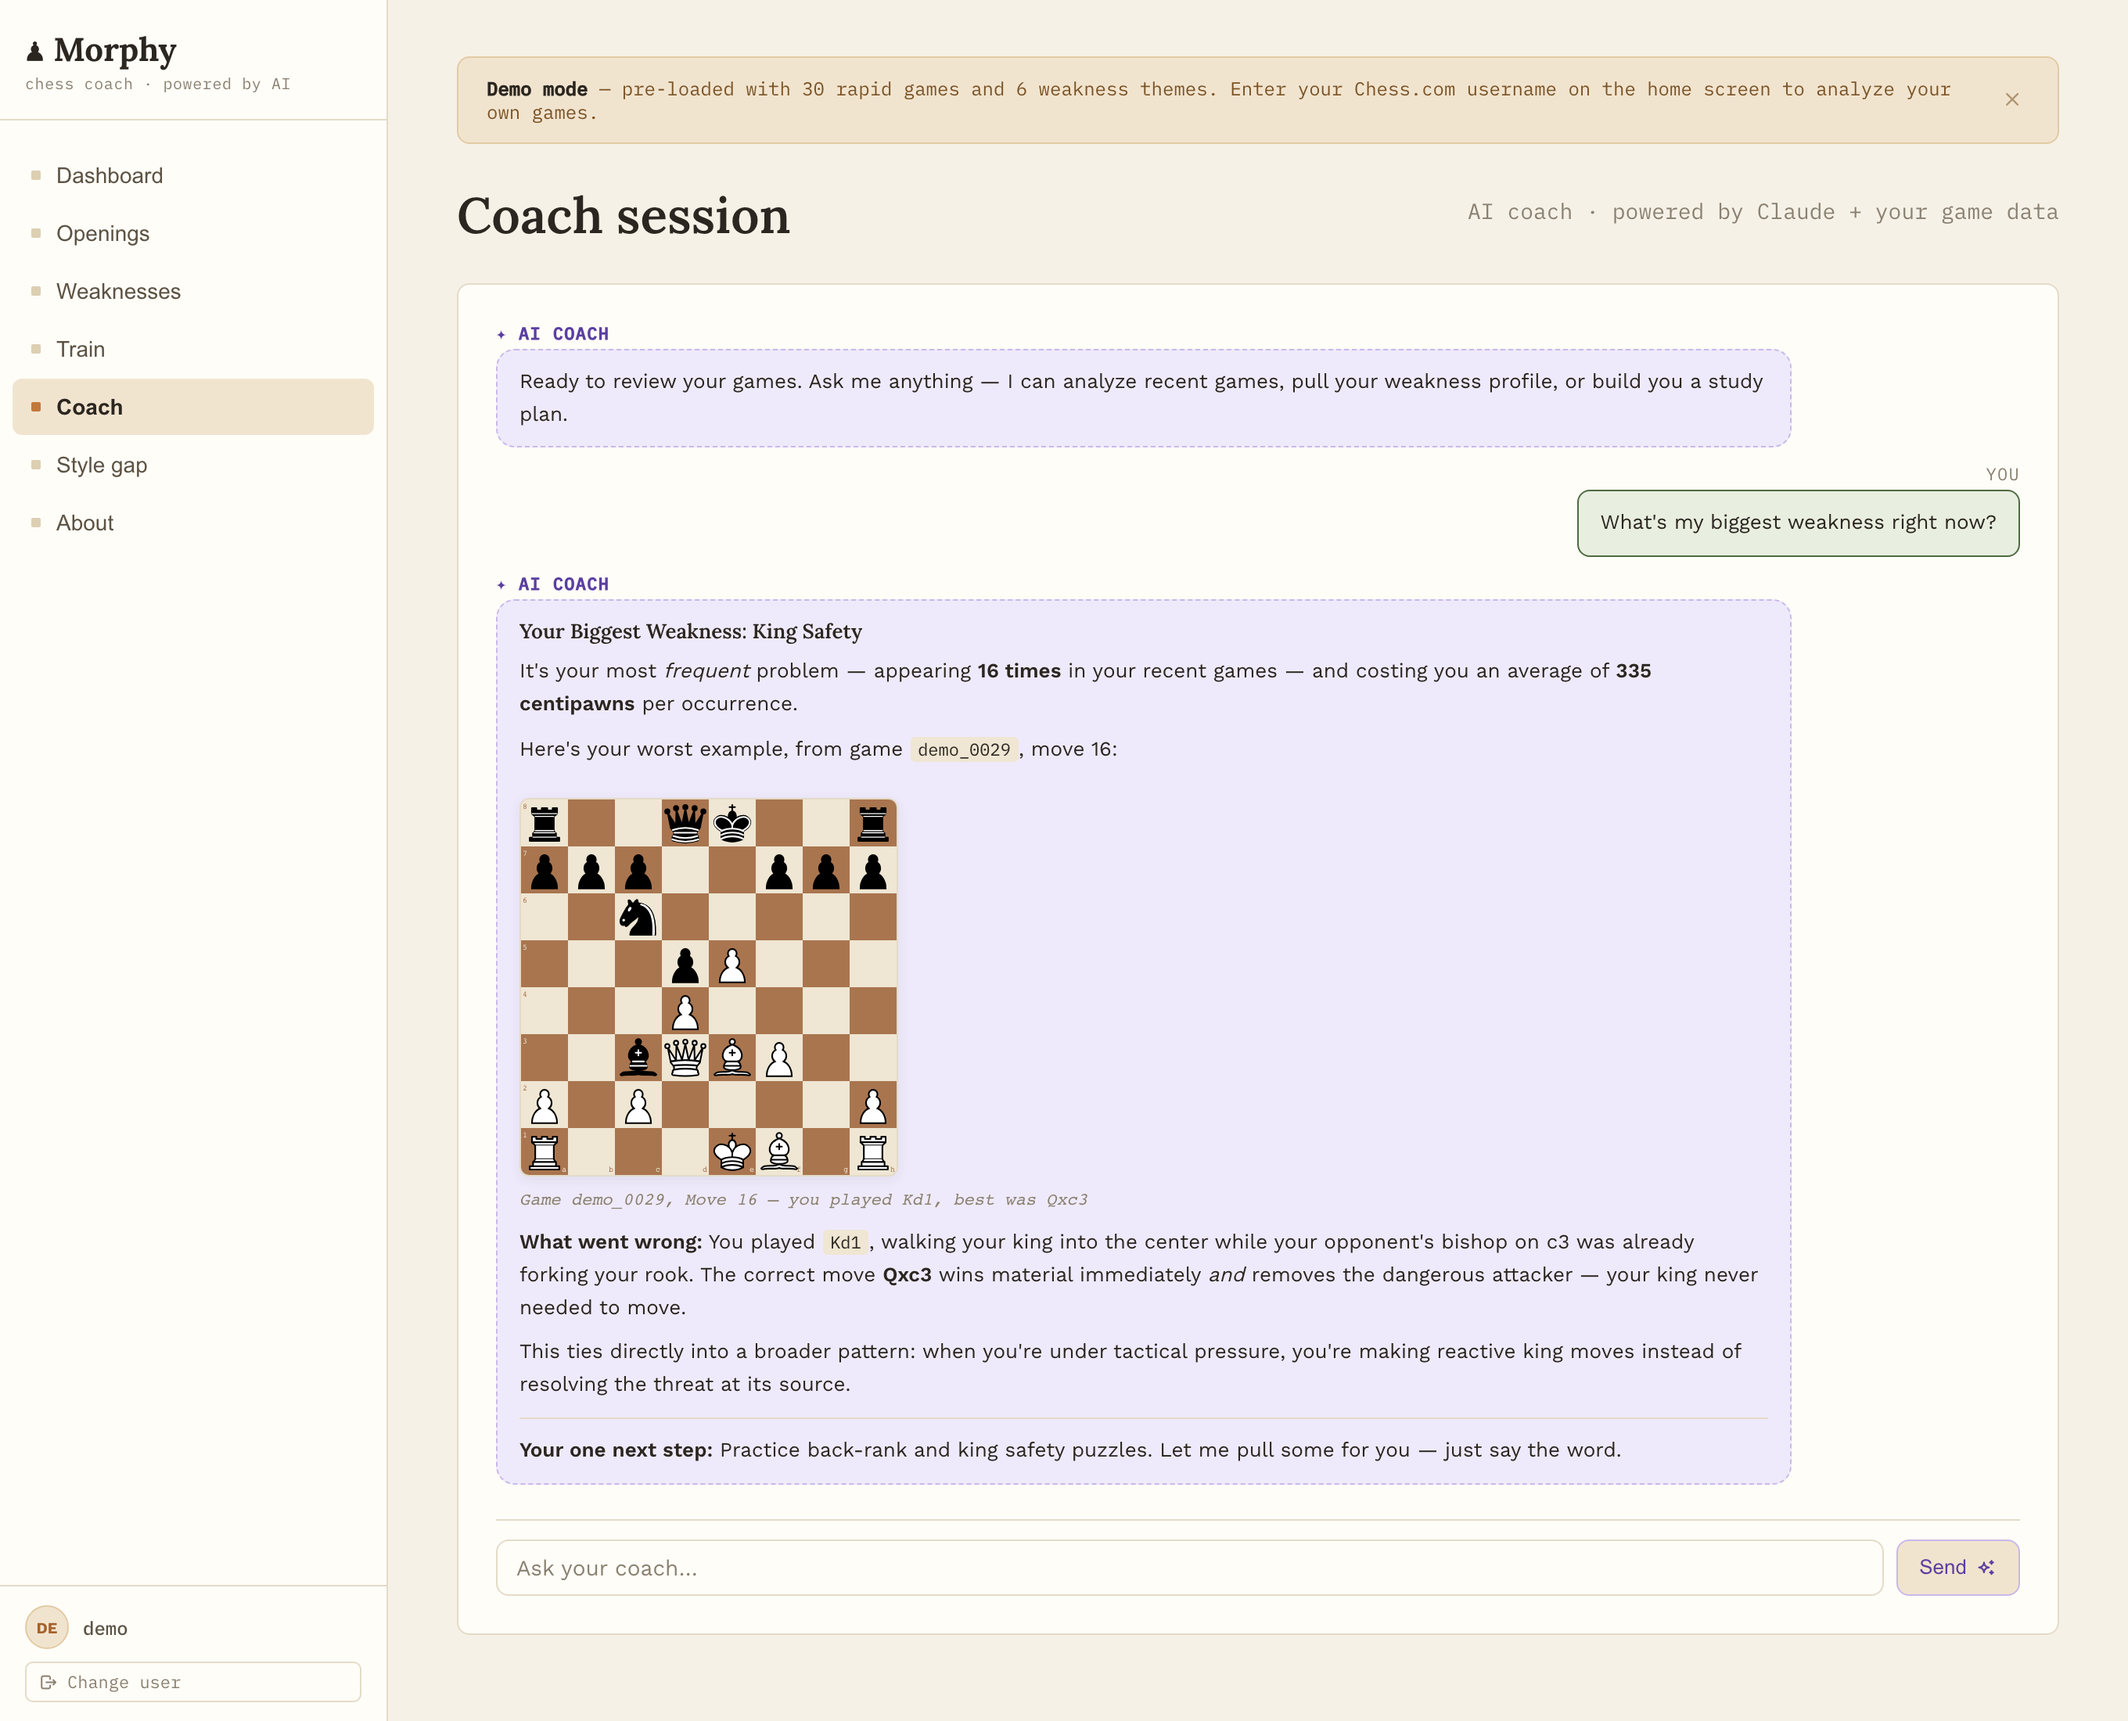
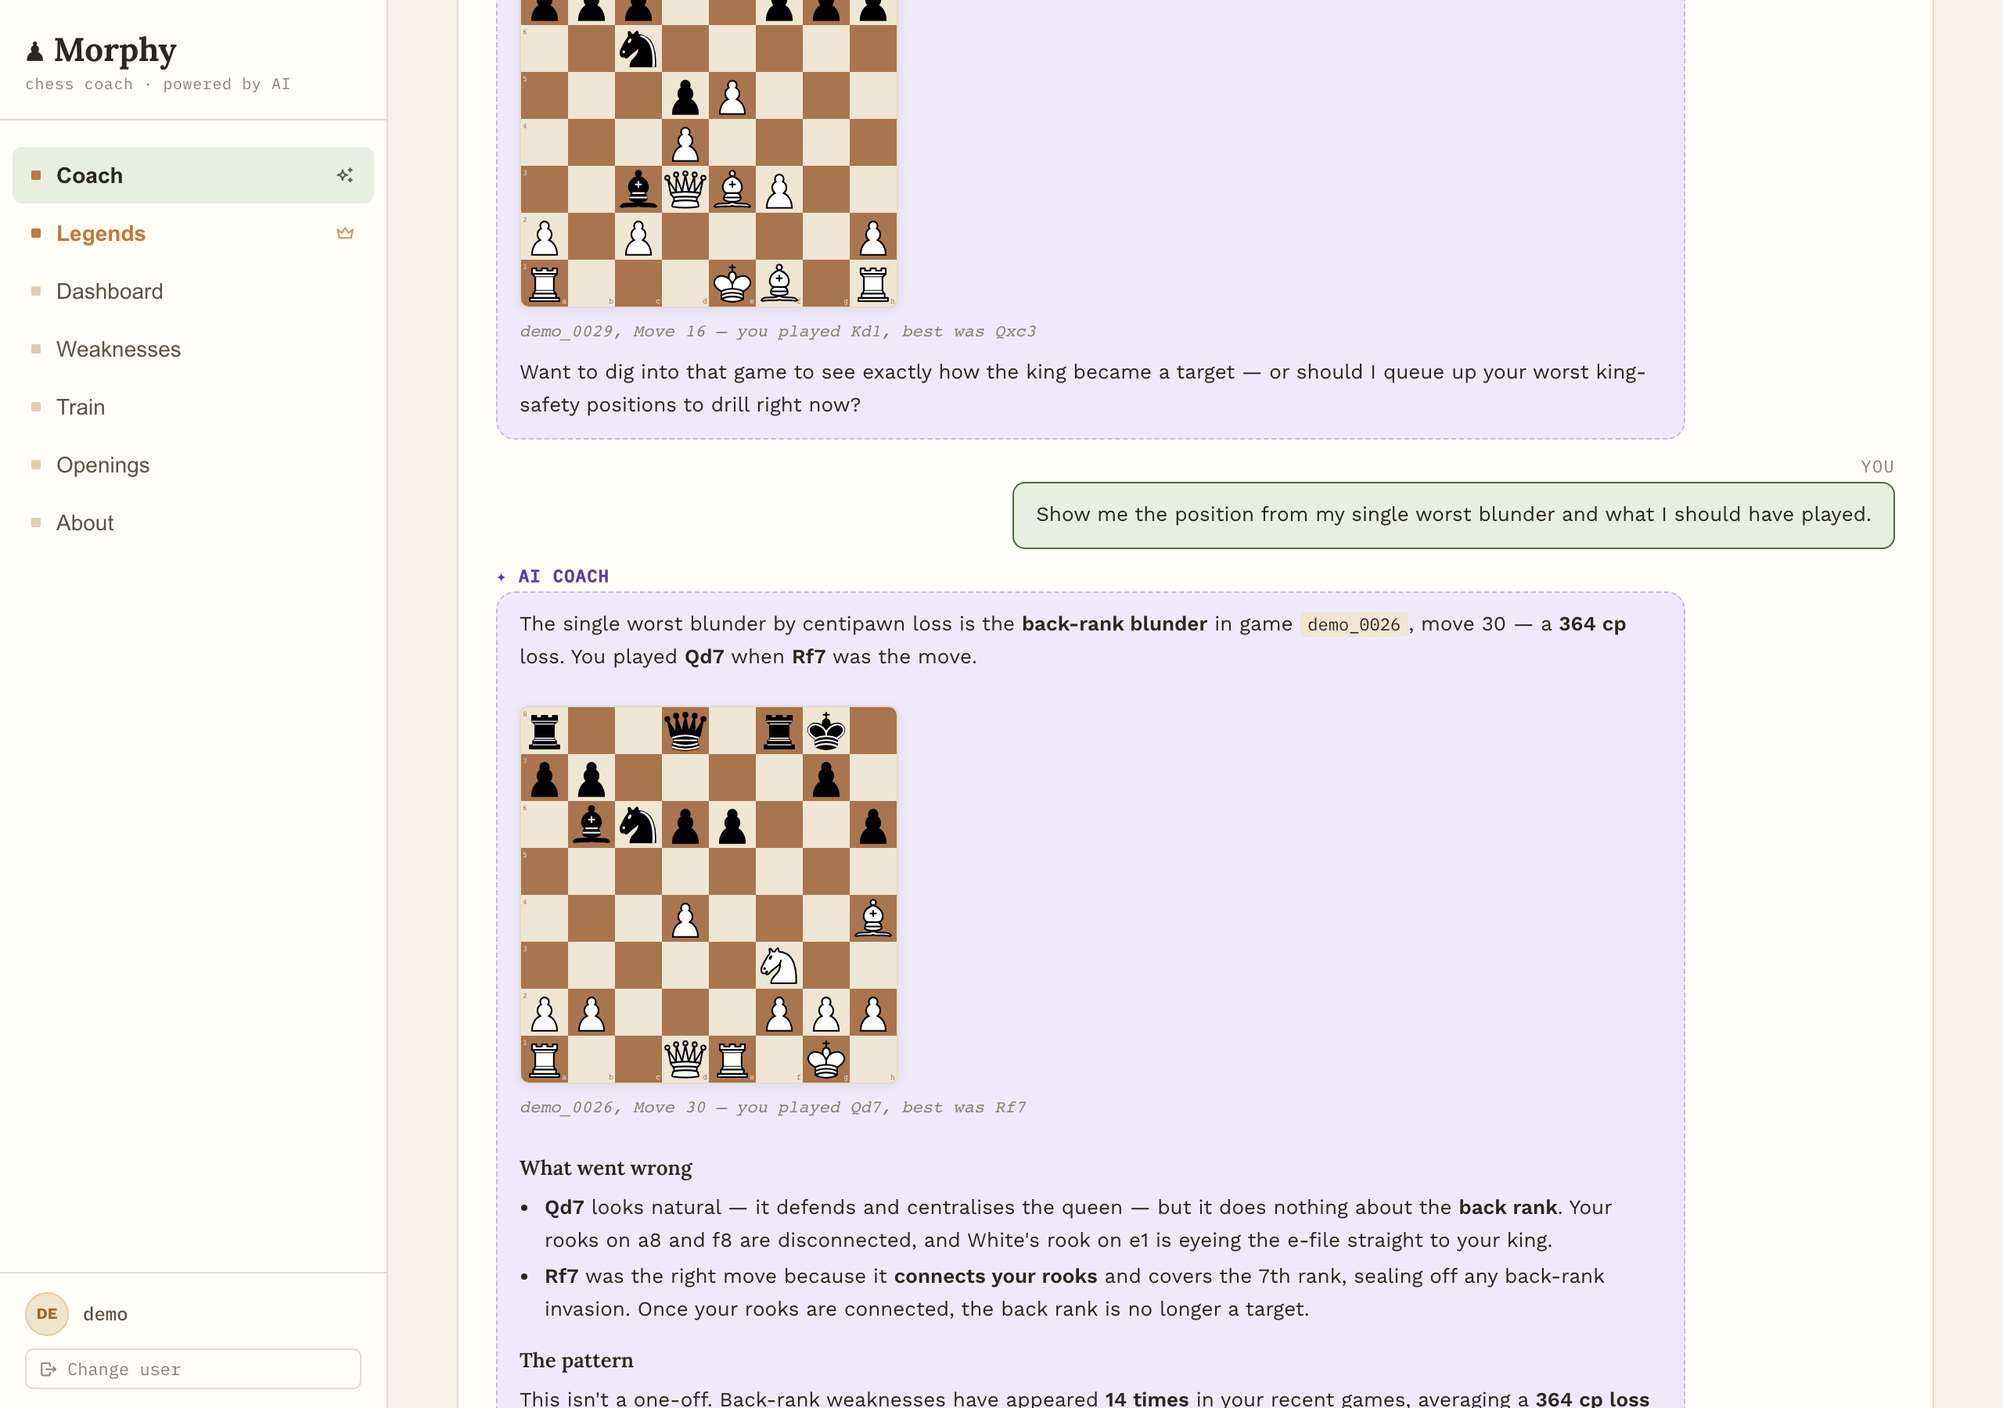
Regenerate README screenshots for the current UI + add a reusable script
The screenshots predated coach-first nav, the 'Your style' dashboard
card, and the Legends redesign. Regenerated all five from the live demo:

- coach: grounded multi-turn exchange with two rendered boards, real
  game IDs / centipawn losses, and cross-game pattern recognition
- dashboard: metrics + the new 'Your style' card + accuracy trend
- style-gap (Legends): 'play like a legend' reveal, progress ring, habit
- train / weaknesses: refreshed for the current chrome (Legends nav, etc.)

Adds scripts/screenshots.py — a committed Playwright script (was ad-hoc
before) that drives the demo and captures all five at 2x. One-time setup
documented in the script header.

diff --git a/scripts/screenshots.py b/scripts/screenshots.py
@@ -1,0 +1,80 @@
+#!/usr/bin/env python3
+"""Regenerate the README screenshots from the running app (demo user).
+
+One-time setup:
+    pip install playwright && python -m playwright install chromium
+
+Then, with the frontend dev server running (npm run dev in frontend/) and the
+backend running (uvicorn, needed only for the live coach shot):
+    python scripts/screenshots.py
+
+Captures the demo experience so no real account or data is required. Emulates
+reduced motion so charts settle deterministically instead of mid-animation.
+"""
+from __future__ import annotations
+
+import pathlib
+import sys
+
+from playwright.sync_api import sync_playwright
+
+BASE = sys.argv[1] if len(sys.argv) > 1 else "http://localhost:5173"
+OUT = pathlib.Path(__file__).resolve().parent.parent / "docs" / "screenshots"
+VIEWPORT = {"width": 1280, "height": 900}
+
+# (filename, nav label to click, selector to wait for before shooting)
+PAGES = [
+    ("dashboard.png", "Dashboard", ".style-hero"),
+    ("weaknesses.png", "Weaknesses", ".weakness-list"),
+    ("train.png", "Train", ".trainer-card"),
+    ("style-gap.png", "Legends", ".legend-reveal"),
+]
+
+
+def main() -> None:
+    OUT.mkdir(parents=True, exist_ok=True)
+    with sync_playwright() as p:
+        browser = p.chromium.launch()
+        page = browser.new_page(viewport=VIEWPORT, reduced_motion="reduce", device_scale_factor=2)
+
+        page.goto(BASE, wait_until="networkidle")
+        page.get_by_role("button", name="Try demo").click()
+        page.wait_for_selector(".nav-item", timeout=30_000)
+
+        for filename, nav, wait_for in PAGES:
+            page.get_by_role("button", name=nav, exact=False).click()
+            page.wait_for_selector(wait_for, timeout=30_000)
+            page.wait_for_timeout(900)  # let charts/rings finish
+            page.screenshot(path=str(OUT / filename))
+            print(f"  ✓ {filename}")
+
+        # Coach — the README hero. Let the proactive opener resolve, then ask for
+        # a specific position so the shot shows the grounded, board-rendered
+        # capability. Wait for that answer to FULLY finish (no pending spinner).
+        page.get_by_role("button", name="Coach", exact=False).click()
+        page.wait_for_timeout(1500)
+        try:
+            page.wait_for_selector(".ai-thinking", state="detached", timeout=90_000)
+        except Exception:
+            print("  ! coach opener didn't resolve (backend running?)")
+        box = page.locator(".chat-input")
+        box.fill("Show me the position from my single worst blunder and what I should have played.")
+        box.press("Enter")
+        try:
+            page.wait_for_selector(".ai-thinking", timeout=15_000)              # answer starts
+            page.wait_for_selector(".ai-thinking", state="detached", timeout=120_000)  # answer done
+            page.wait_for_selector(".coach-board", timeout=5_000)
+            page.wait_for_timeout(1500)
+        except Exception:
+            print("  ! coach answer/board didn't settle; shooting current state")
+        page.evaluate("document.querySelector('.chat-messages')?.scrollTo(0, document.querySelector('.chat-messages').scrollHeight)")
+        page.wait_for_timeout(500)
+        page.screenshot(path=str(OUT / "coach.png"))
+        print("  ✓ coach.png")
+
+        browser.close()
+    print(f"\nwrote screenshots -> {OUT.relative_to(pathlib.Path.cwd())}")
+
+
+if __name__ == "__main__":
+    main()
